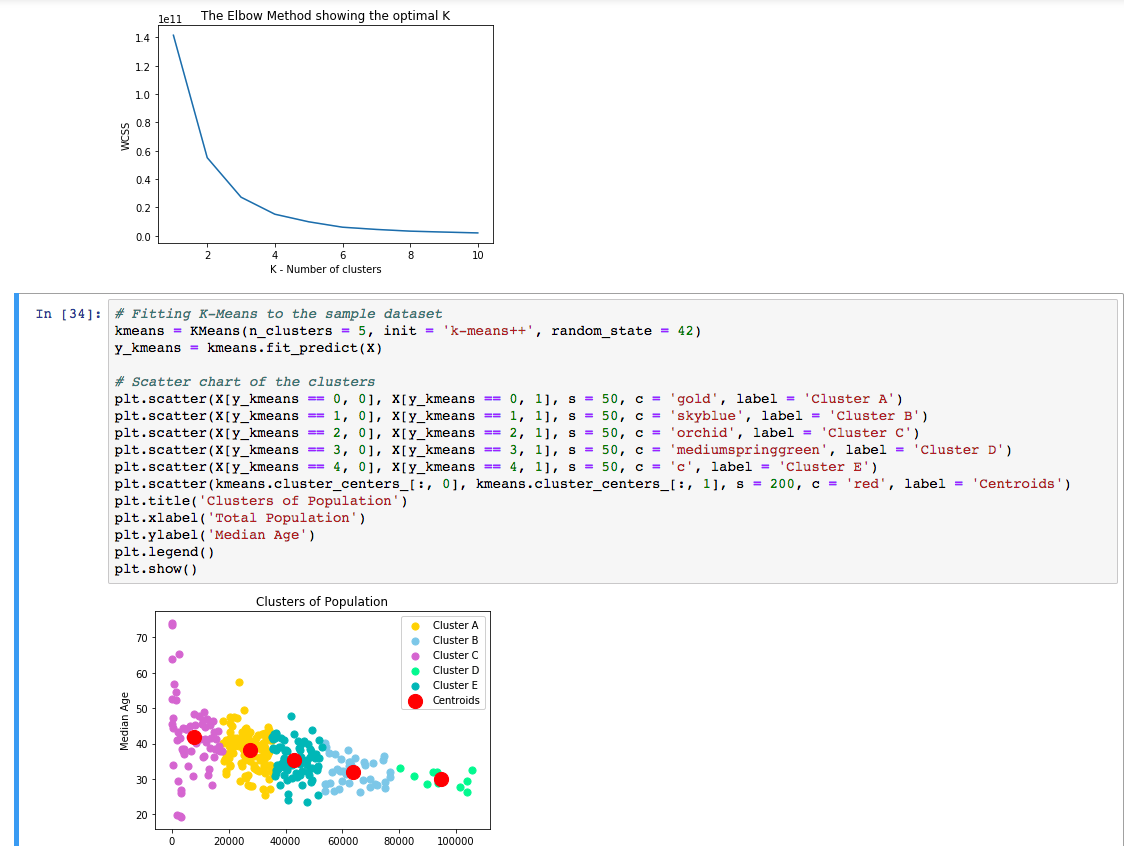
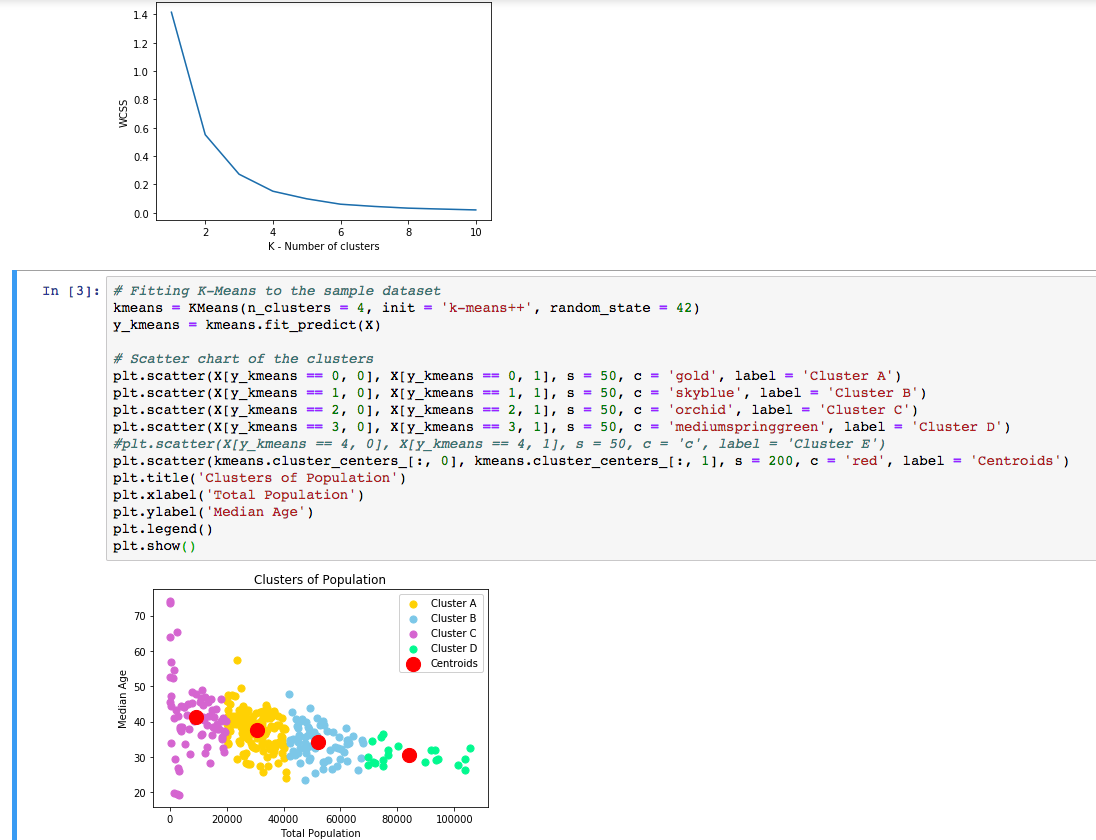
document

diff --git a/Clustering_K-Means/README.md b/Clustering_K-Means/README.md
@@ -22,9 +22,8 @@ https://catalog.data.gov/dataset/2010-census-populations-by-zip-code
 <img src="images/K-Means Clustering 2018-08-25 03-01-14.png">
 
 ## Data Story:
-This data is 2010 census data. After clustering using K-Means we plotted data which clearly shows most of the population lies around 38 of median age. As population grows median ages is also changing and its coming down. This model gives idea, if business need to manufacture products according to ~age of 40 for 20K population, ~age of 39 for next 18K population, ~age of 38 for 18K, ~age of 36 for 24K and age of 32 for 34K.
-
-## Code: ViewController.swift
+This data is 2010 census data. After clustering using K-Means we plotted data which clearly shows most of the population lies around 38 of median age. As population grows median ages is also changing and its coming down. This model gives idea, if business need to manufacture products according to ~age of 40 for 20K population, ~age of 38 for next 21K population, ~age of 37 for 39K, ~age of 36 for 24K and age of 30 for 34K.
+## Code: K-Means Clustering.ipynb
 ```
 # K-Means Clustering
 
@@ -71,7 +70,7 @@ plt.scatter(X[y_kmeans == 0, 0], X[y_kmeans == 0, 1], s = 50, c = 'gold', label 
 plt.scatter(X[y_kmeans == 1, 0], X[y_kmeans == 1, 1], s = 50, c = 'skyblue', label = 'Cluster B')
 plt.scatter(X[y_kmeans == 2, 0], X[y_kmeans == 2, 1], s = 50, c = 'orchid', label = 'Cluster C')
 plt.scatter(X[y_kmeans == 3, 0], X[y_kmeans == 3, 1], s = 50, c = 'mediumspringgreen', label = 'Cluster D')
-plt.scatter(X[y_kmeans == 4, 0], X[y_kmeans == 4, 1], s = 50, c = 'c', label = 'Cluster E')
+#plt.scatter(X[y_kmeans == 4, 0], X[y_kmeans == 4, 1], s = 50, c = 'c', label = 'Cluster E')
 plt.scatter(kmeans.cluster_centers_[:, 0], kmeans.cluster_centers_[:, 1], s = 200, c = 'red', label = 'Centroids')
 plt.title('Clusters of Population')
 plt.xlabel('Total Population')
@@ -79,6 +78,8 @@ plt.ylabel('Median Age')
 plt.legend()
 plt.show()
 ```
+## Reference:
+[Python Data Science Handbook - K-Means](https://colab.research.google.com/github/jakevdp/PythonDataScienceHandbook/blob/master/notebooks/05.11-K-Means.ipynb)
 
 ## Thank You
 

diff --git a/Clustering_Hierarchical/README.md b/Clustering_Hierarchical/README.md
@@ -28,8 +28,6 @@ Two type of Hierarchical Clustering.
 ## Screenshot</br>
 <img src="images/Hierarchical Clustering 2018-09-02 15-13-31.png">
 
-## Data Story:
-This data is 2010 census data. After clustering using Hierarchical we plotted data which clearly shows most of the population lies around 35 of median age. As population grows median ages is also changing and its coming down. This model gives idea, if business need to manufacture products according to ~age of 40 for 20K population, ~age of 38 for next 30K population, ~age of 35 for 50K.
 ## Code: Hierarchical Clustering.ipynb
 ```
 # Hierarchical Clustering
@@ -72,6 +70,12 @@ y_hc = hc.fit_predict(X)
 # Scatter chart of the clusters
 plt.scatter(X[:, 0], X[:, 1], c=y_hc, s=40, cmap='viridis');
 ```
+## Data Story:
+This data is 2010 census data. After clustering using Hierarchical we plotted data which clearly shows most of the population lies around 35 of median age. As population grows median ages is also changing and its coming down. This model gives idea, if business need to manufacture products according to ~age of 40 for 20K population, ~age of 38 for next 30K population, ~age of 35 for 50K.
 
+## Reference:
+[Python Data Science Handbook](https://colab.research.google.com/github/jakevdp/PythonDataScienceHandbook/blob/master/notebooks/Index.ipynb)
+
+[Hierarchical Clustering](http://www.google.com/url?q=http%3A%2F%2Fwww.econ.upf.edu%2F~michael%2Fstanford%2Fmaeb7.pdf&sa=D&sntz=1&usg=AFQjCNE07AuJ6qYl5ZFyRX7C0RPOlYyFiA)
 ## Thank You
 

diff --git a/Clustering_GaussianMixtureModel/README.md b/Clustering_GaussianMixtureModel/README.md
@@ -18,10 +18,7 @@ https://catalog.data.gov/dataset/2010-census-populations-by-zip-code
 ## Screenshot</br>
 <img src="images/GaussianMixtureModel Clustering 2018-09-02 14-55-22.png">
 
-## Data Story:
-This data is 2010 census data. After clustering using GMM we plotted data which clearly shows most of the population lies around 38 of median age. As population grows median ages is also changing and its coming down. This model gives idea, if business need to manufacture products according to ~age of 40 for 20K population, ~age of 39 for next 18K population, ~age of 38 for 18K, ~age of 36 for 24K and age of 32 for 34K.
-
-## Code: ViewController.swift
+## Code: GaussianMixtureModel Clustering.ipynb
 ```
 # GMM Clustering
 
@@ -55,6 +52,11 @@ labels = gmm.predict(X)
 # Scatter chart of the clusters
 plt.scatter(X[:, 0], X[:, 1], c=labels, s=40, cmap='viridis');
 ```
+## Data Story:
+This data is 2010 census data. After clustering using GMM we plotted data which clearly shows most of the population lies around 38 of median age. As population grows median ages is also changing and its coming down. This model gives idea, if business need to manufacture products according to ~age of 45 for 5K population, ~age of 38 for next 45K population, ~age of 36 for 20K, and age of 35 for 30K.
+
+## Reference:
+[Python Data Science Handbook - Gaussian Mixture Model](https://colab.research.google.com/github/jakevdp/PythonDataScienceHandbook/blob/master/notebooks/05.12-Gaussian-Mixtures.ipynb)
 
 ## Thank You
 
